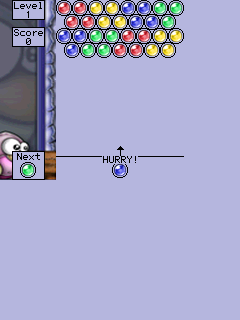
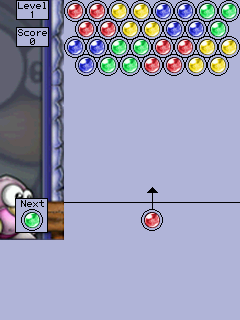
Update manual screenshots and fix a comment
git-svn-id: svn://svn.rockbox.org/rockbox/trunk@12076 a1c6a512-1295-4272-9138-f99709370657

Changed region(s): [[0.0, 0.0, 1.0, 0.75], [0.5833, 0.5625, 0.6708, 0.7188], [0.4083, 0.4375, 0.5542, 0.5625]]

diff --git a/apps/plugins/bubbles.c b/apps/plugins/bubbles.c
@@ -126,7 +126,7 @@ PLUGIN_HEADER
 #define ROW_INDENT     8
 #define MAX_FPS       30
 
-/* 12x12 bubbles (iPod Nano, Sansa E200) */
+/* 12x12 bubbles (iPod Nano) */
 #elif (LCD_HEIGHT == 132) && (LCD_WIDTH == 176)
 #define BUBBLE_WIDTH  12
 #define BUBBLE_HEIGHT 12
